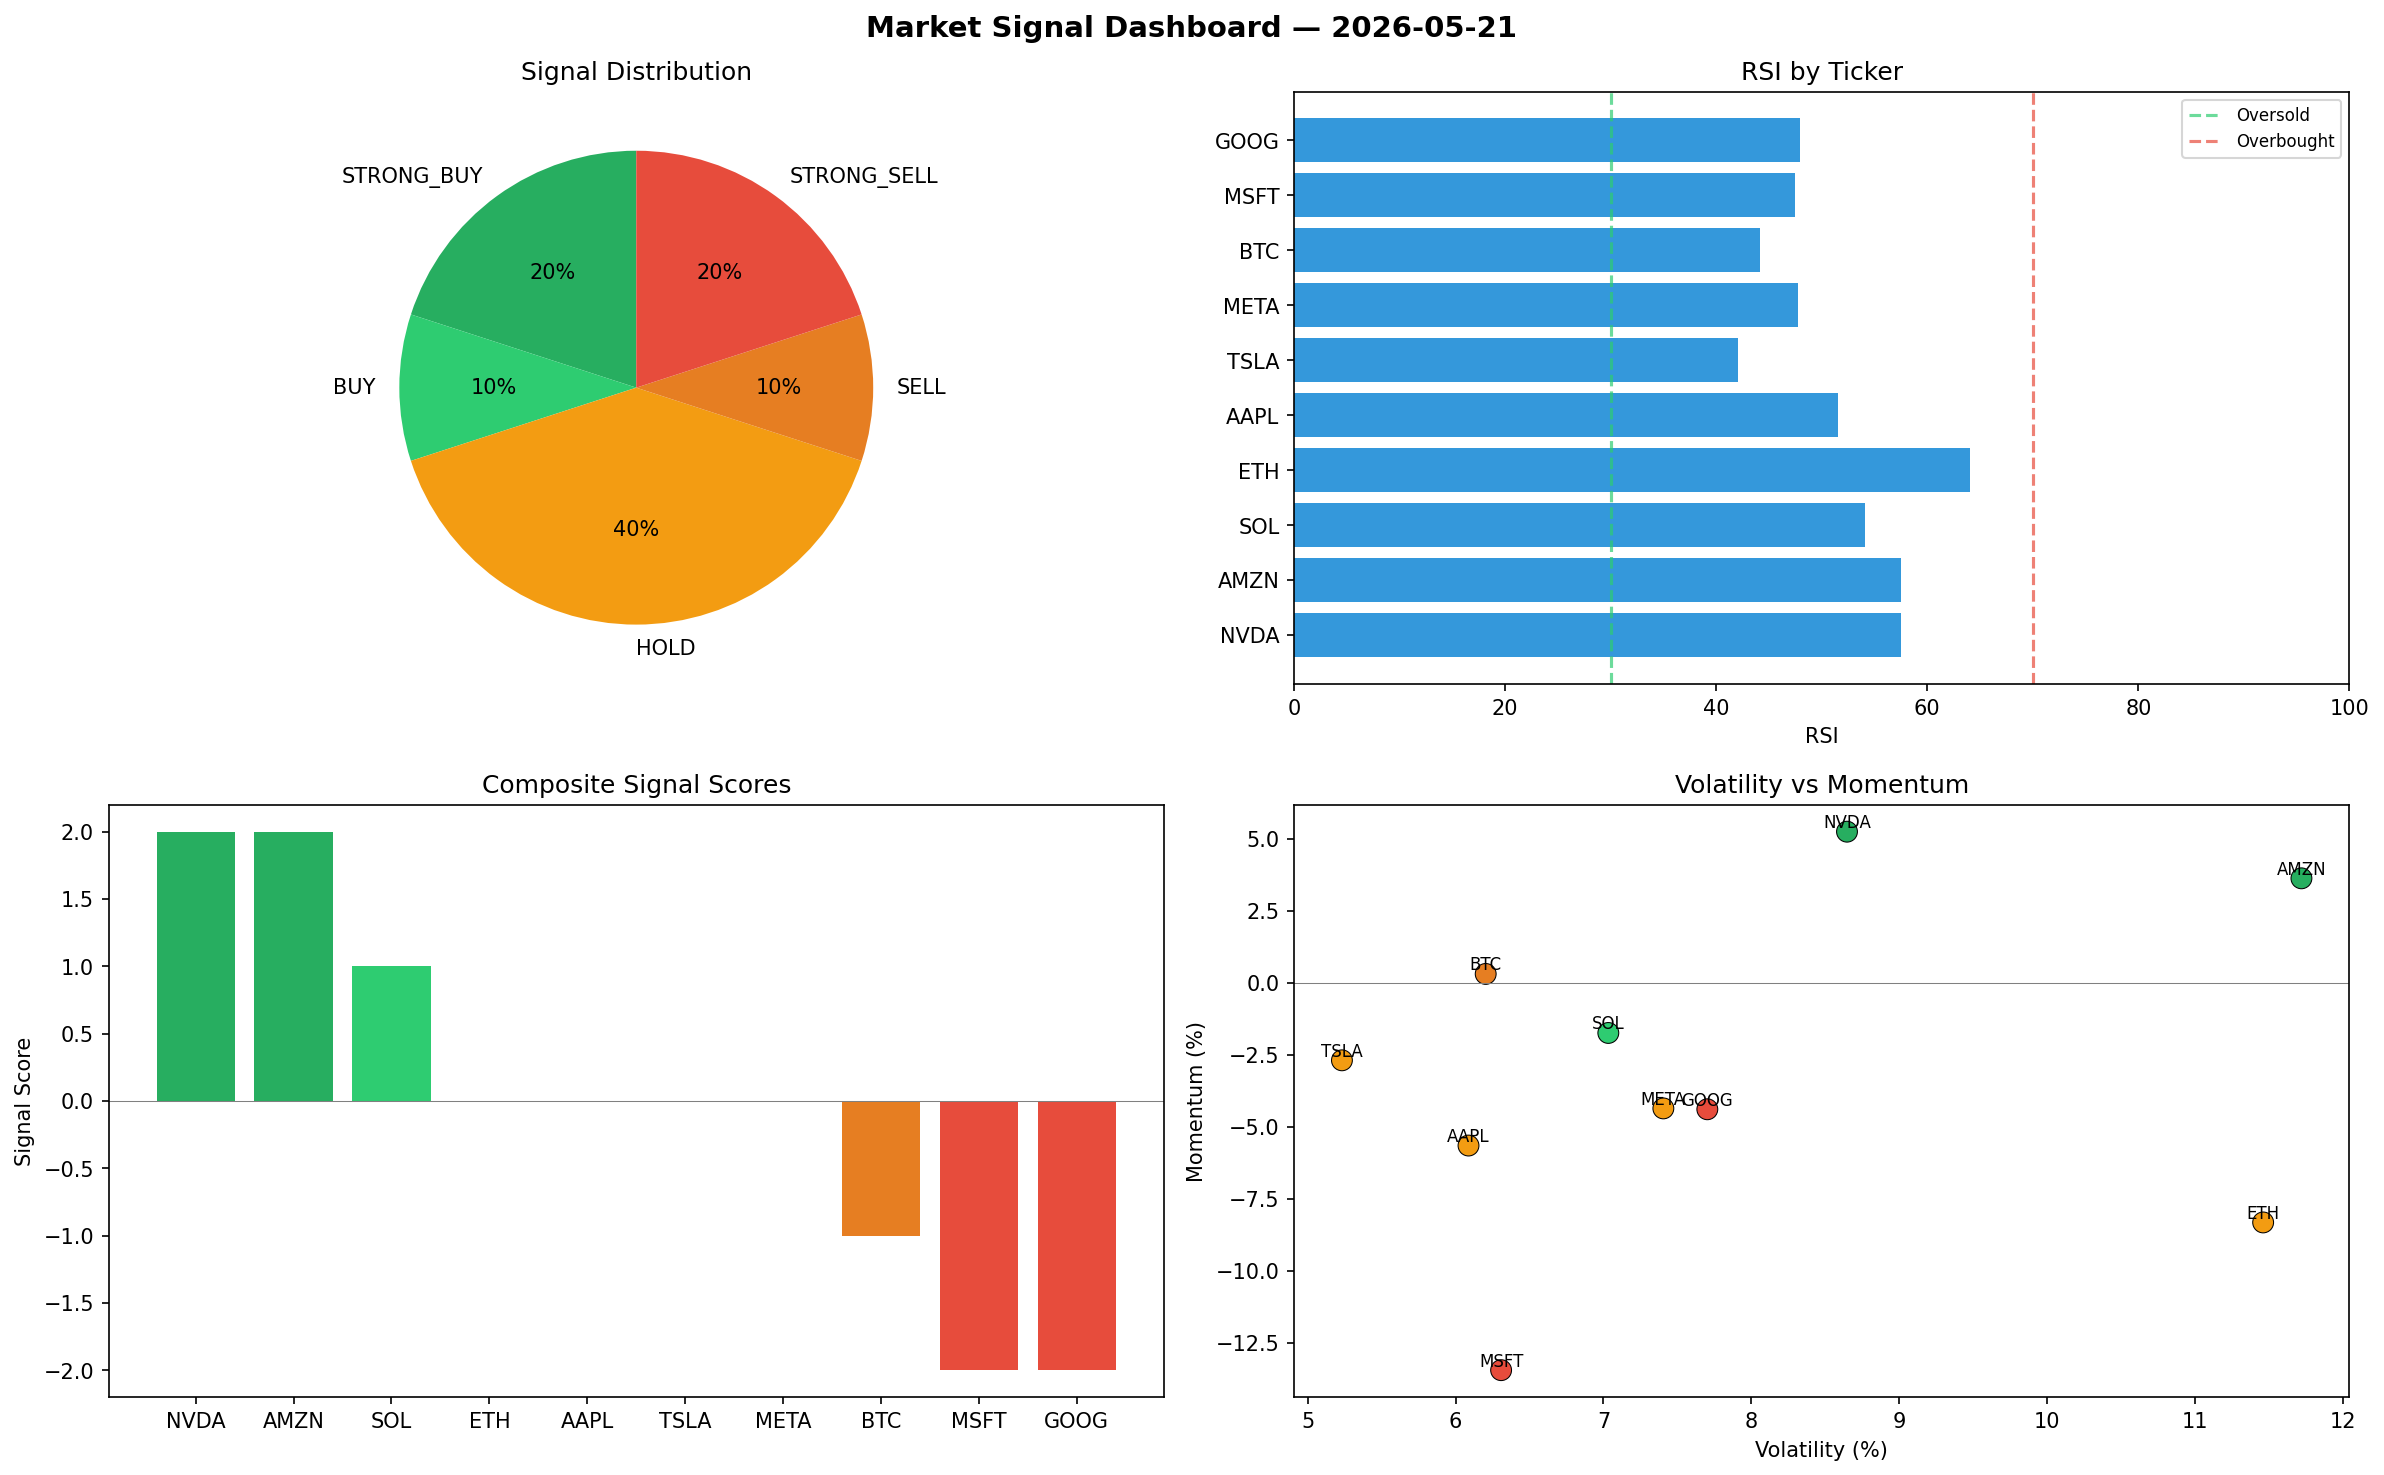
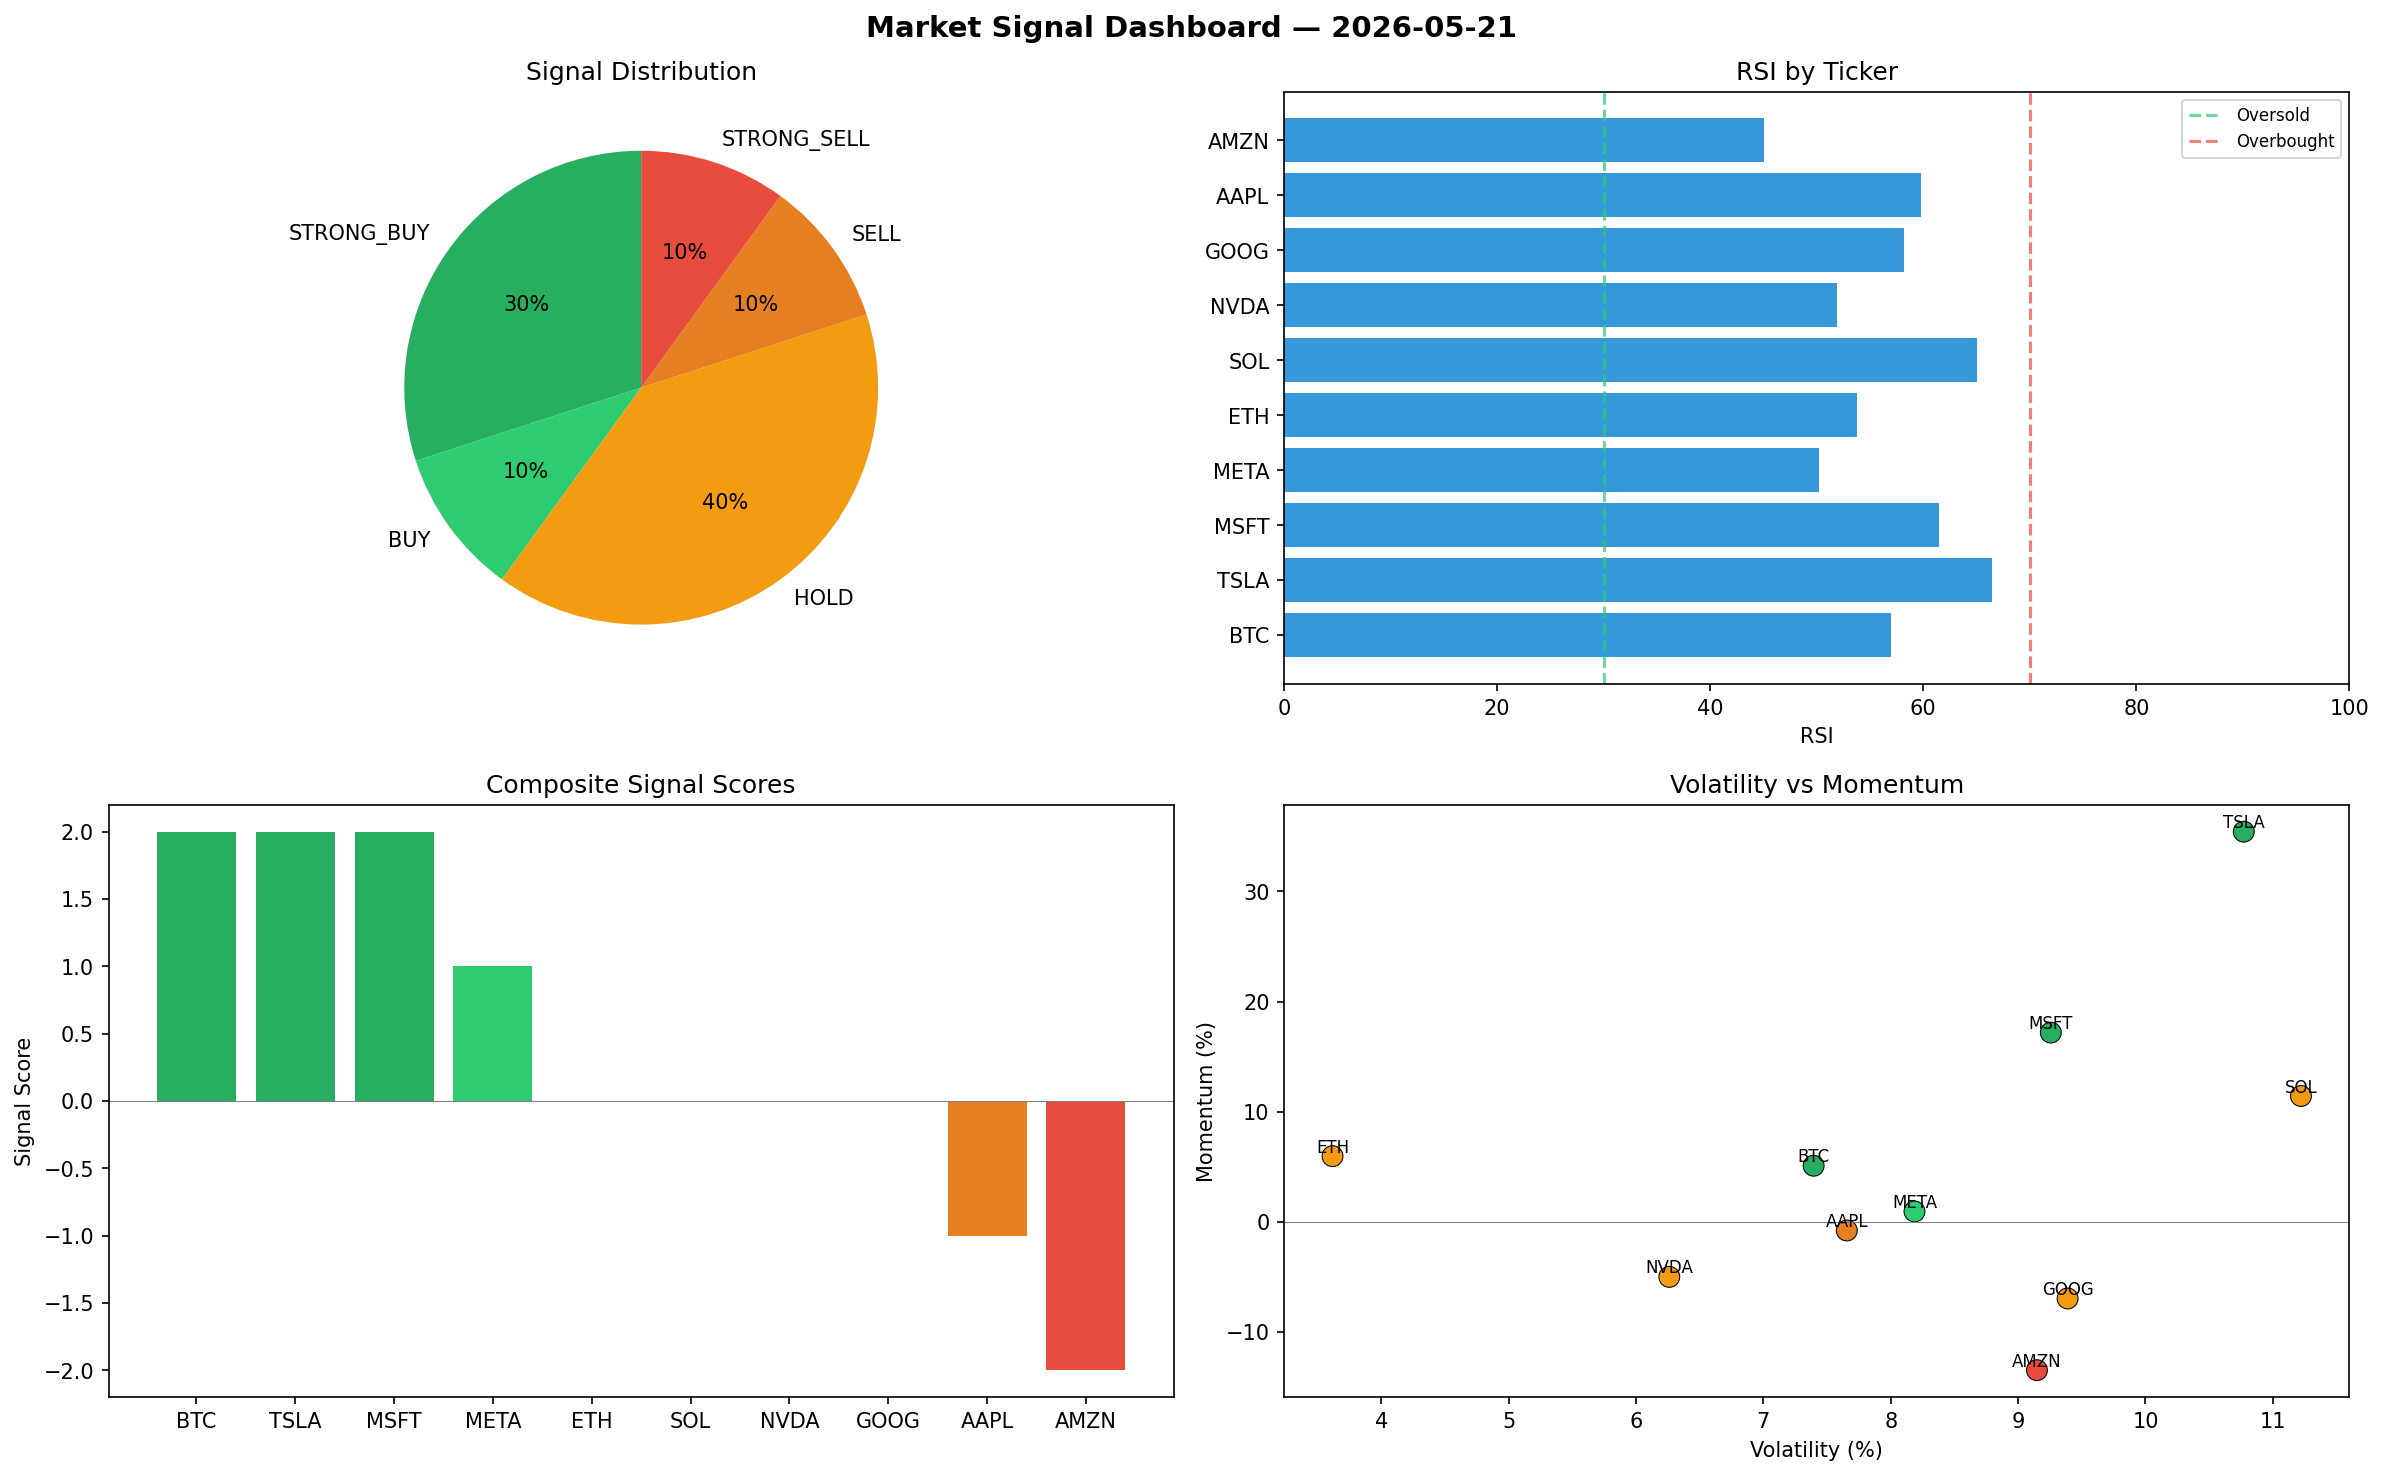
automated-bots: market signals 2026-05-21T11:42

diff --git a/logs/2026-05-21.md b/logs/2026-05-21.md
@@ -1,6 +1,6 @@
 # Market Signal Report — 2026-05-21
 
-**Run ID:** `70b1f0c06f` | **Buy:** 3 | **Sell:** 3 | **Hold:** 4
+**Run ID:** `0b88404e71` | **Buy:** 4 | **Sell:** 2 | **Hold:** 4
 
 ![Dashboard](2026-05-21_dashboard.png)
 
@@ -8,28 +8,28 @@
 
 | Ticker | Price | Signal | Score | RSI | Momentum | Confidence |
 |--------|-------|--------|-------|-----|----------|------------|
-| NVDA | $4494.05 | **STRONG_BUY** | 2 | 57.56 | 0.0525 | 0.5 |
-| AMZN | $2605.5 | **STRONG_BUY** | 2 | 57.5 | 0.0363 | 0.5 |
-| SOL | $3218.03 | **BUY** | 1 | 54.12 | -0.0174 | 0.25 |
-| ETH | $2510.44 | **HOLD** | 0 | 64.06 | -0.0832 | 0.0 |
-| AAPL | $4501.56 | **HOLD** | 0 | 51.5 | -0.0565 | 0.0 |
-| TSLA | $352.21 | **HOLD** | 0 | 42.03 | -0.0269 | 0.0 |
-| META | $1089.86 | **HOLD** | 0 | 47.77 | -0.0436 | 0.0 |
-| BTC | $1457.62 | **SELL** | -1 | 44.11 | 0.0031 | 0.25 |
-| MSFT | $3775.45 | **STRONG_SELL** | -2 | 47.44 | -0.1345 | 0.5 |
-| GOOG | $1548.9 | **STRONG_SELL** | -2 | 47.9 | -0.0439 | 0.5 |
+| BTC | $5376.04 | **STRONG_BUY** | 2 | 56.99 | 0.0509 | 0.5 |
+| TSLA | $3169.53 | **STRONG_BUY** | 2 | 66.43 | 0.3542 | 0.5 |
+| MSFT | $1752.5 | **STRONG_BUY** | 2 | 61.43 | 0.1718 | 0.5 |
+| META | $4458.67 | **BUY** | 1 | 50.23 | 0.0094 | 0.25 |
+| ETH | $4403.01 | **HOLD** | 0 | 53.76 | 0.0596 | 0.0 |
+| SOL | $2511.94 | **HOLD** | 0 | 65.03 | 0.1142 | 0.0 |
+| NVDA | $4134.4 | **HOLD** | 0 | 51.94 | -0.05 | 0.0 |
+| GOOG | $3762.97 | **HOLD** | 0 | 58.21 | -0.0696 | 0.0 |
+| AAPL | $482.28 | **SELL** | -1 | 59.8 | -0.0079 | 0.25 |
+| AMZN | $521.59 | **STRONG_SELL** | -2 | 45.05 | -0.1347 | 0.5 |
 
 ## Delta vs Yesterday
 
 | Ticker | Today | Yesterday | Price Change | Signal Changed |
 |--------|-------|-----------|-------------|----------------|
-| NVDA | STRONG_BUY | STRONG_BUY | 📈 52.1% | — |
-| AMZN | STRONG_BUY | HOLD | 📉 -18.15% | ⚠ YES |
-| SOL | BUY | BUY | 📈 178.34% | — |
-| ETH | HOLD | HOLD | 📉 -19.11% | — |
-| AAPL | HOLD | SELL | 📈 513.38% | ⚠ YES |
-| TSLA | HOLD | SELL | 📉 -82.61% | ⚠ YES |
-| META | HOLD | STRONG_BUY | 📉 -55.62% | ⚠ YES |
-| BTC | SELL | BUY | 📉 -56.75% | ⚠ YES |
-| MSFT | STRONG_SELL | HOLD | 📈 279.89% | ⚠ YES |
-| GOOG | STRONG_SELL | SELL | 📈 537.72% | ⚠ YES |
+| BTC | STRONG_BUY | BUY | 📈 59.53% | ⚠ YES |
+| TSLA | STRONG_BUY | SELL | 📈 56.46% | ⚠ YES |
+| MSFT | STRONG_BUY | HOLD | 📈 76.34% | ⚠ YES |
+| META | BUY | STRONG_BUY | 📈 81.56% | ⚠ YES |
+| ETH | HOLD | HOLD | 📈 41.88% | — |
+| SOL | HOLD | BUY | 📈 117.27% | ⚠ YES |
+| NVDA | HOLD | STRONG_BUY | 📈 39.93% | ⚠ YES |
+| GOOG | HOLD | SELL | 📈 1449.31% | ⚠ YES |
+| AAPL | SELL | SELL | 📉 -34.29% | — |
+| AMZN | STRONG_SELL | HOLD | 📉 -83.62% | ⚠ YES |
